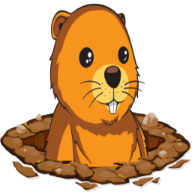
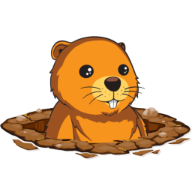
update

diff --git a/src/index.html b/src/index.html
@@ -196,7 +196,7 @@
 
           <!-- icon -->
           <img
-            class="logo max-w-[140px] lg:max-w-none lg:w-fit h-fit lg:absolute lg:left-1/2 top-0 lg:-translate-x-1/2"
+            class="logo max-w-[140px] w-full lg:max-w-[263px] h-fit lg:absolute lg:left-1/2 top-0 lg:-translate-x-1/2"
             src="./assets/logo.webp"
             alt="Logo"
           />
@@ -275,7 +275,7 @@
           <a href="#" class="logo flex gap-2 items-center px-2">
             <img
               loading="lazy"
-              class="w-full h-fit max-w-[250px]"
+              class="w-full h-fit max-w-[263px]"
               src="./assets/logo.webp"
               alt="logo"
             />
@@ -1777,7 +1777,10 @@
           >
             <div class="left space-y-6 basis-1/3">
               <a href="#" class="flex"
-                ><img src="./assets/logo.webp" alt="Logo"
+                ><img
+                  class="h-fit max-w-[263px] w-full"
+                  src="./assets/logo.webp"
+                  alt="Logo"
               /></a>
               <p class="text-gunsmoke-300">
                 Dynamic NFTs that evolve based on the real world. No two days

diff --git a/src/styles/output.css b/src/styles/output.css
@@ -836,6 +836,9 @@
   .max-w-\[250px\] {
     max-width: 250px;
   }
+  .max-w-\[263px\] {
+    max-width: 263px;
+  }
   .max-w-\[280px\] {
     max-width: 280px;
   }
@@ -1952,6 +1955,11 @@
   .lg\:w-fit {
     @media (width >= 64rem) {
       width: fit-content;
+    }
+  }
+  .lg\:max-w-\[263px\] {
+    @media (width >= 64rem) {
+      max-width: 263px;
     }
   }
   .lg\:max-w-none {
